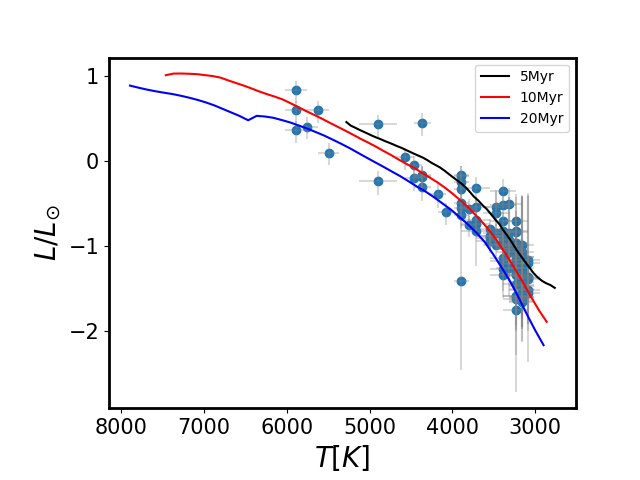
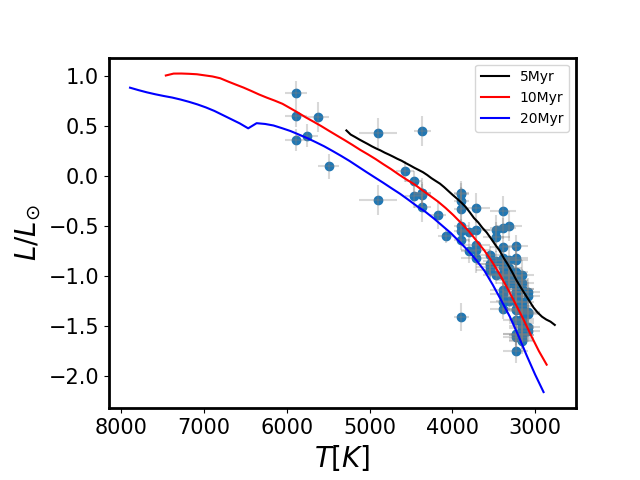
Updates

diff --git a/L_patimo vs L_Barenfeld.py b/L_patimo vs L_Barenfeld.py
@@ -2,8 +2,7 @@
 # NOTE: THIS ONLY TAKES IN CONSIDERATION THE 24 DISKS IN THE SAMPLE
 
 from data_file import luminosity_list_barenfeld_updated, luminosity_list_barenfeld_error_updated
-from Table_1 import luminosity_list_patimo, luminosity_list_patimo_lower_error, luminosity_list_patimo_upper_error
-
+from Table_1 import luminosity_list_patimo, lower_new_luminosity_error_log, upper_new_luminosity_error_log
 
 import matplotlib. pyplot as plt
 fig, ax = plt.subplots()
@@ -25,11 +24,10 @@ plt.plot(x,y, c='orange')
 kwargs_errobar = {'alpha':0.3}
 
 
-# create points
+# create plots
 plt.scatter(luminosity_list_barenfeld_updated, luminosity_list_patimo)
 plt.errorbar(luminosity_list_barenfeld_updated, luminosity_list_patimo, xerr=luminosity_list_barenfeld_error_updated, ls='none', **kwargs_errobar)
-# plt.errorbar(luminosity_list_barenfeld_updated, luminosity_list_patimo, yerr=(luminosity_list_patimo_upper_error, luminosity_list_patimo_lower_error), ls='none', c='blue', **kwargs_errobar)
-
+#plt.errorbar(luminosity_list_barenfeld_updated, luminosity_list_patimo, yerr=(lower_new_luminosity_error_log, upper_new_luminosity_error_log), ls='none', c='gray', **kwargs_errobar)
 plt.xlabel('$L_{Barenfeld} log(L_{\star}/L_{\odot})$', fontsize=20), plt.ylabel('$L_{new} log(L_{\star}/L_{\odot})$', fontsize=20)
 plt.grid()
 ax.tick_params(which='both', labelsize=15)

diff --git a/H-R Diagram.py b/H-R Diagram.py
@@ -5,7 +5,7 @@ import numpy as np
 from scipy.interpolate import interp1d
 
 # import updated values (luminosities and temperatures) for all the 106 stars in the sample
-from Parallaxes import luminosity_106, temperature_list_barenfeld, luminosity_lower_error_1, luminosity_upper_error_1, temperature_list_barenfeld_error_values
+from Parallaxes import luminosity_106, temperature_list_barenfeld, lower_new_luminosity_error_log, upper_new_luminosity_error_log, temperature_list_barenfeld_error_values
 # import values from Feiden's models
 from Feiden_automatic import temperature_column_10Myr, luminosity_column_10Myr, temperature_column_20Myr,\
     luminosity_column_20Myr, temperature_column_5Myr, luminosity_column_5Myr
@@ -24,7 +24,7 @@ kwargs_errobar = {'alpha': 0.3}
 
 #scatter all points from Feiden
 plt.scatter(temperature_list_barenfeld, luminosity_106)
-plt.errorbar(temperature_list_barenfeld, luminosity_106, yerr=(luminosity_upper_error_1, luminosity_lower_error_1), ls='none', c='gray', **kwargs_errobar)
+plt.errorbar(temperature_list_barenfeld, luminosity_106, yerr=(upper_new_luminosity_error_log, lower_new_luminosity_error_log), ls='none', c='gray', **kwargs_errobar)
 plt.errorbar(temperature_list_barenfeld, luminosity_106, xerr=temperature_list_barenfeld_error_values, ls='none', c='gray', **kwargs_errobar)
 
 #interpolate 5Myr
